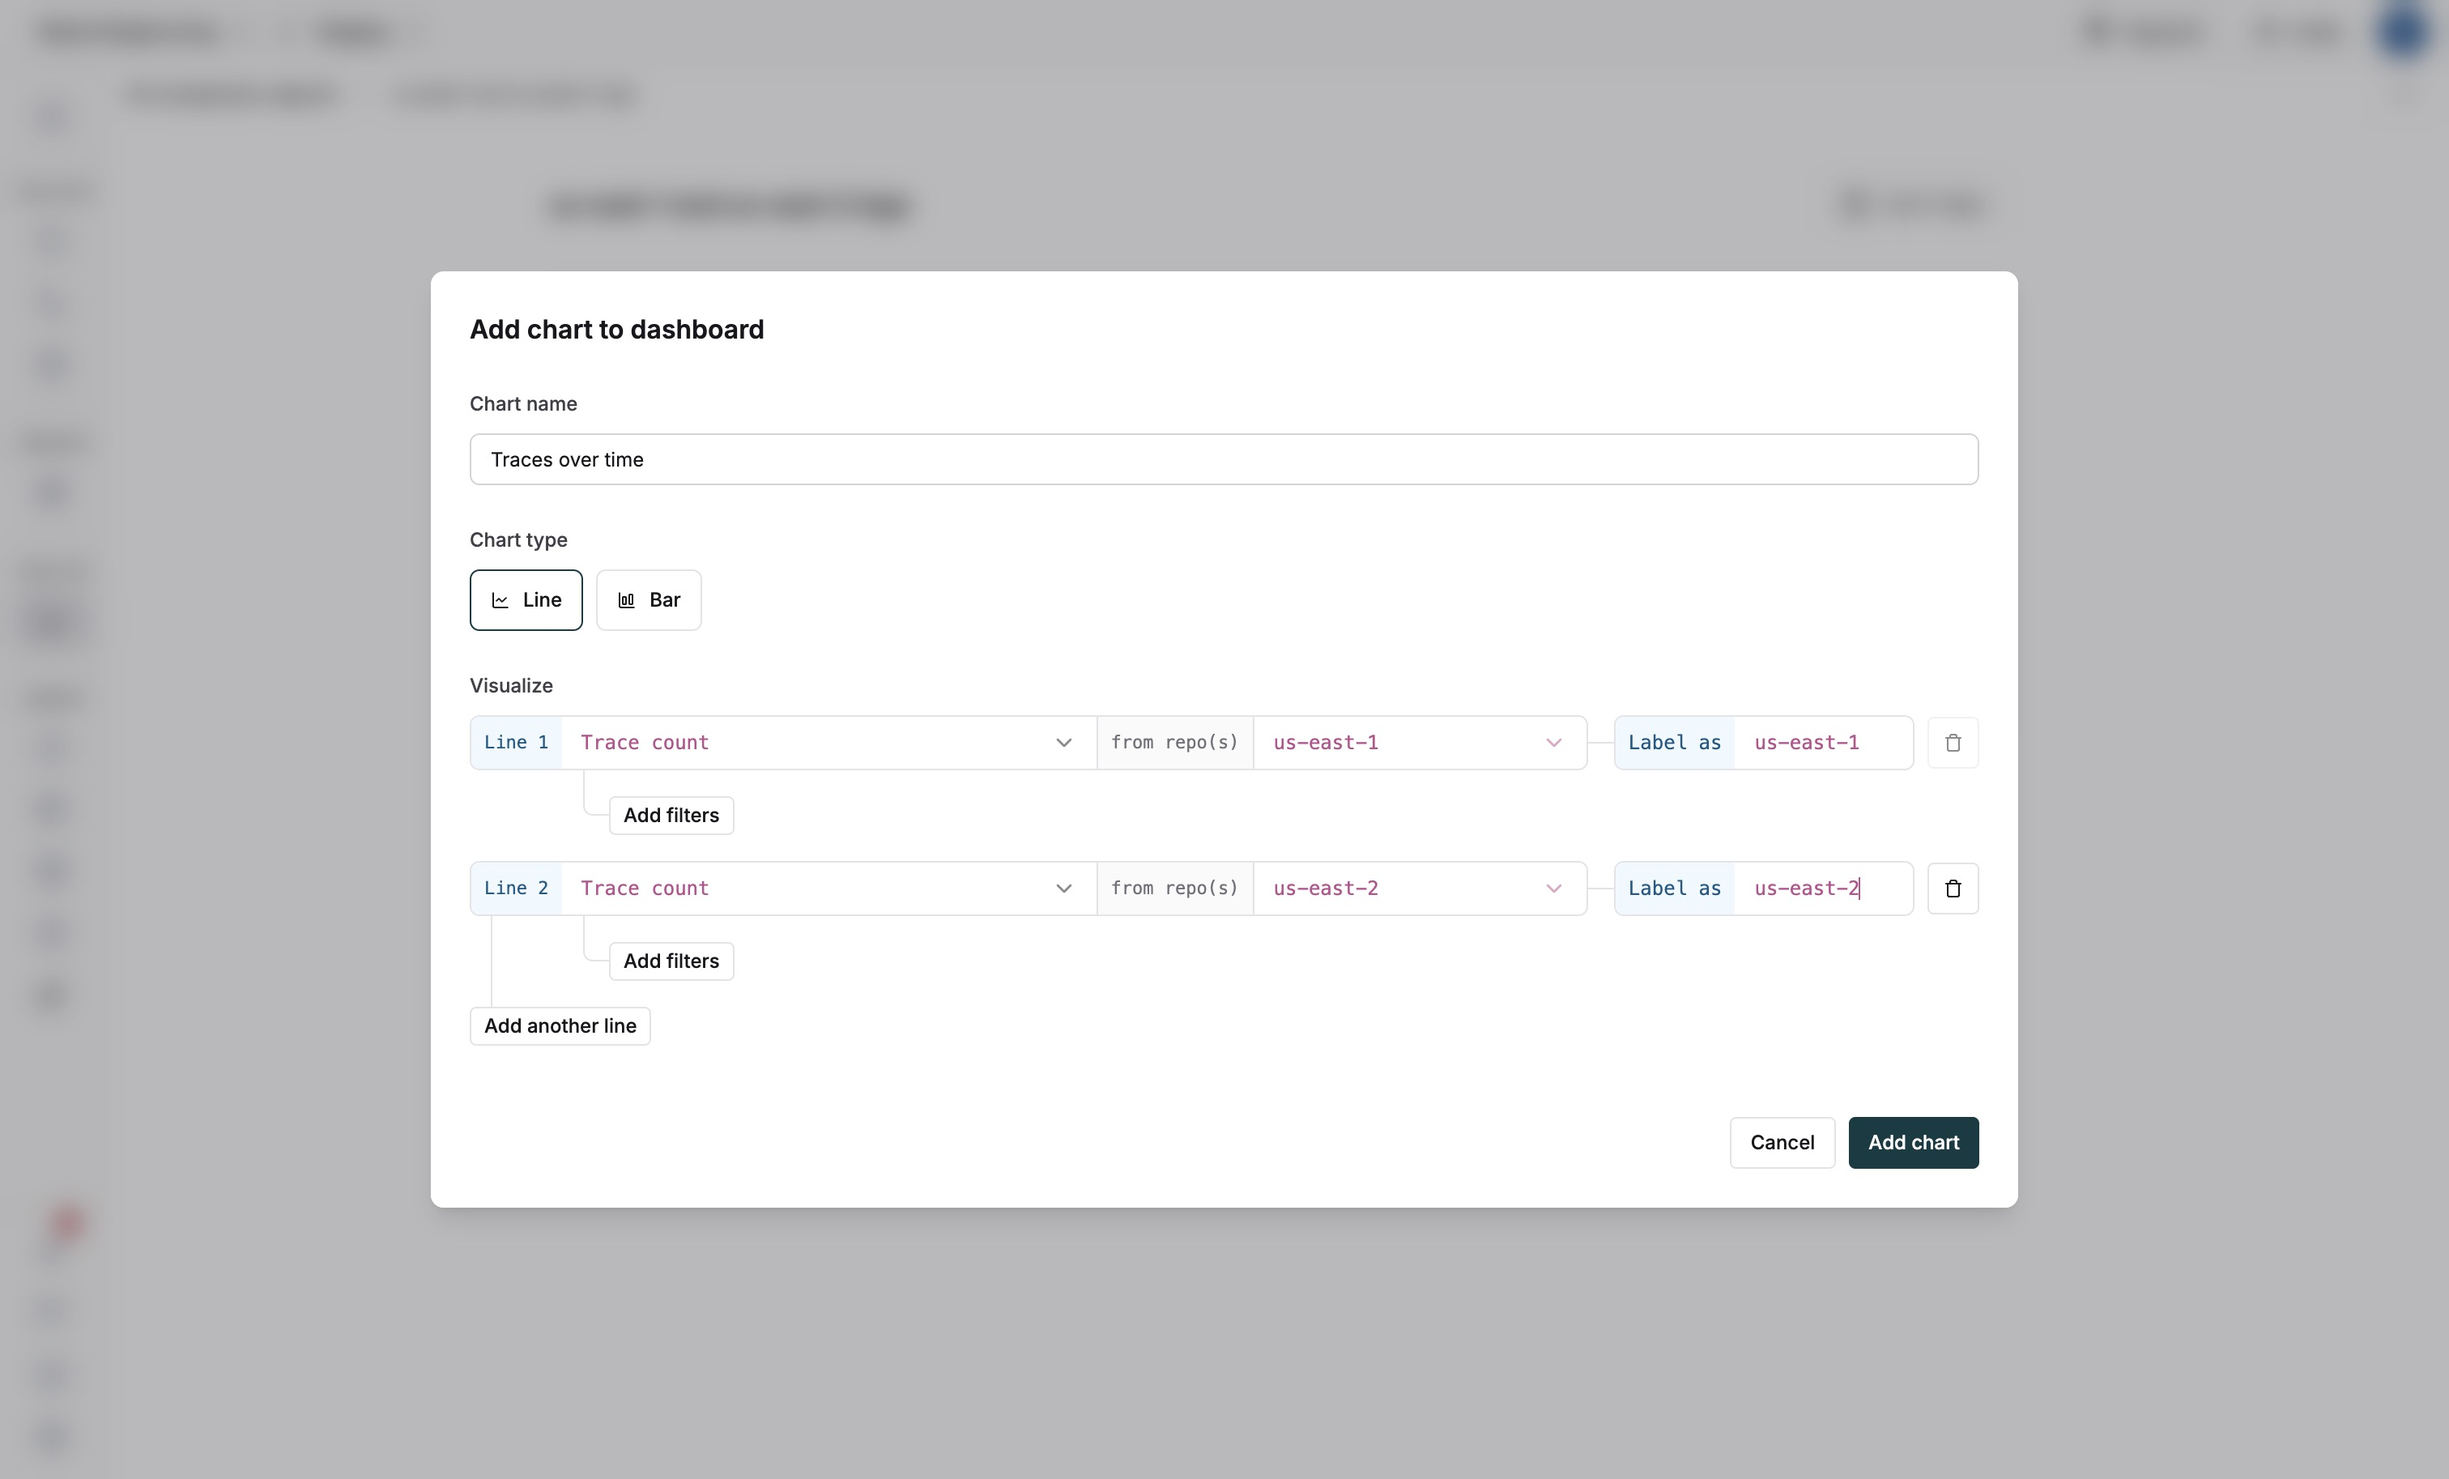
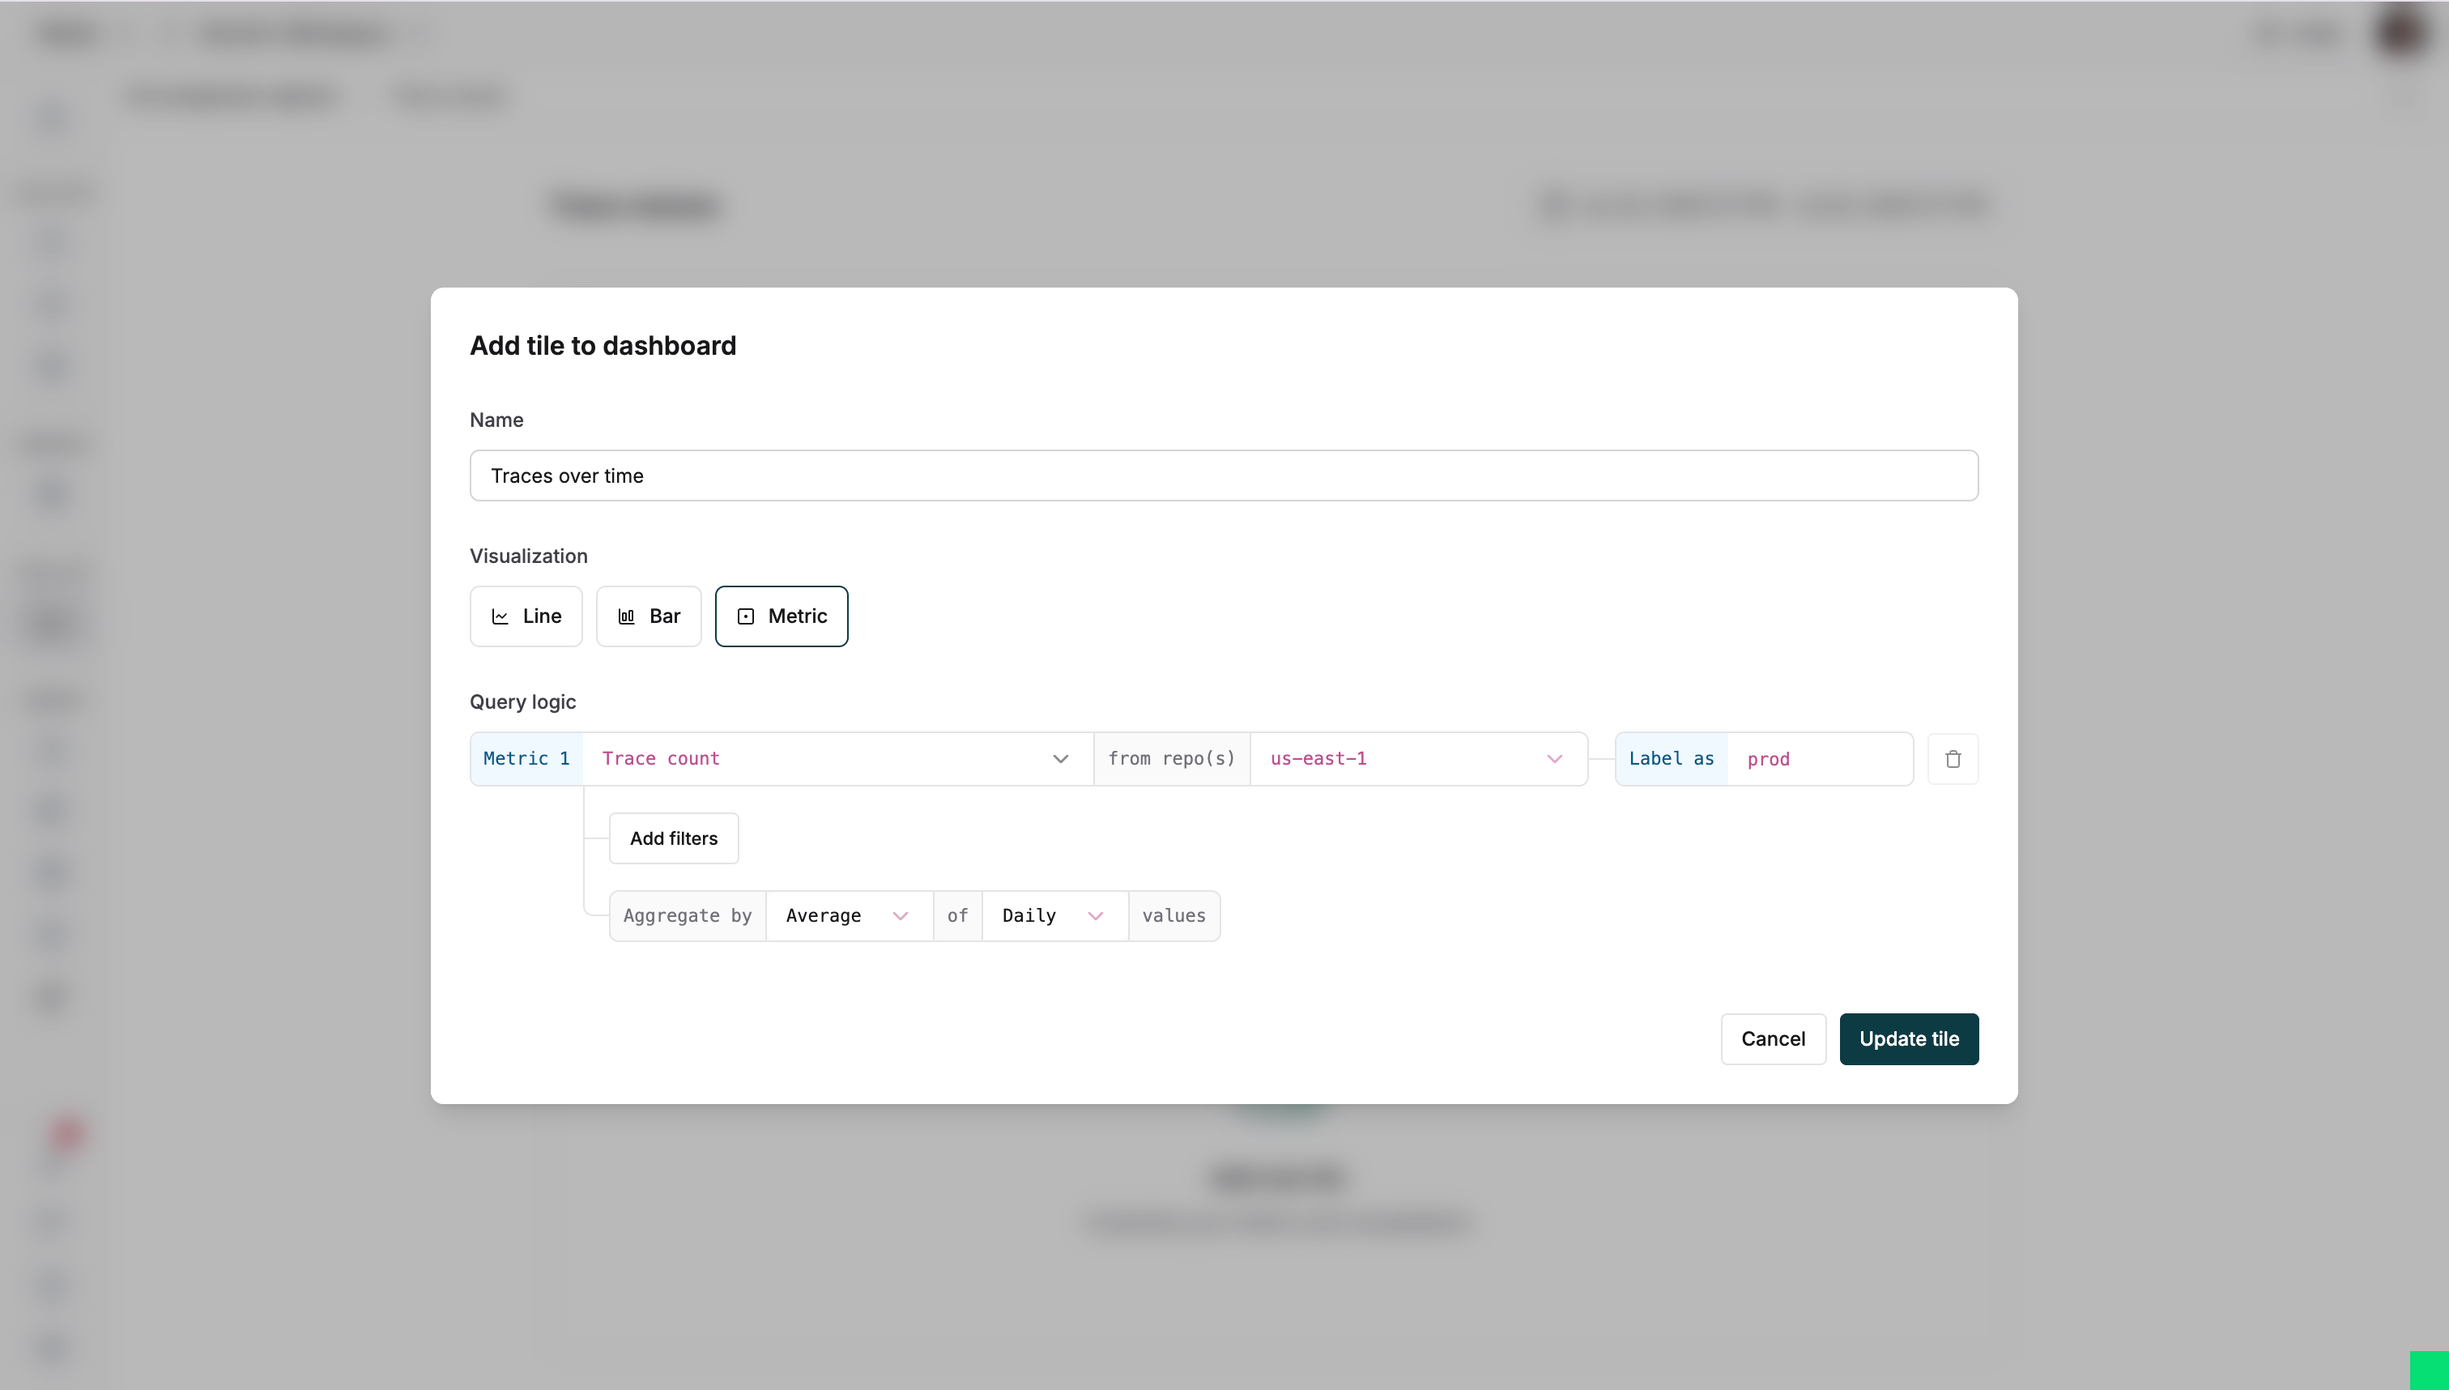
docs enhancements for custom logs dashboard

diff --git a/style.css b/style.css
@@ -105,6 +105,12 @@ p[data-component-part='step-title'] {
   margin-top: 8px !important;
 }
 
+[data-component-part='step-content'] .callout p:first-child {
+  margin-top: 0px !important;
+}
+
+
+
 :root {
   --font-family-headings-custom: 'Inter', sans-serif !important;
 }
